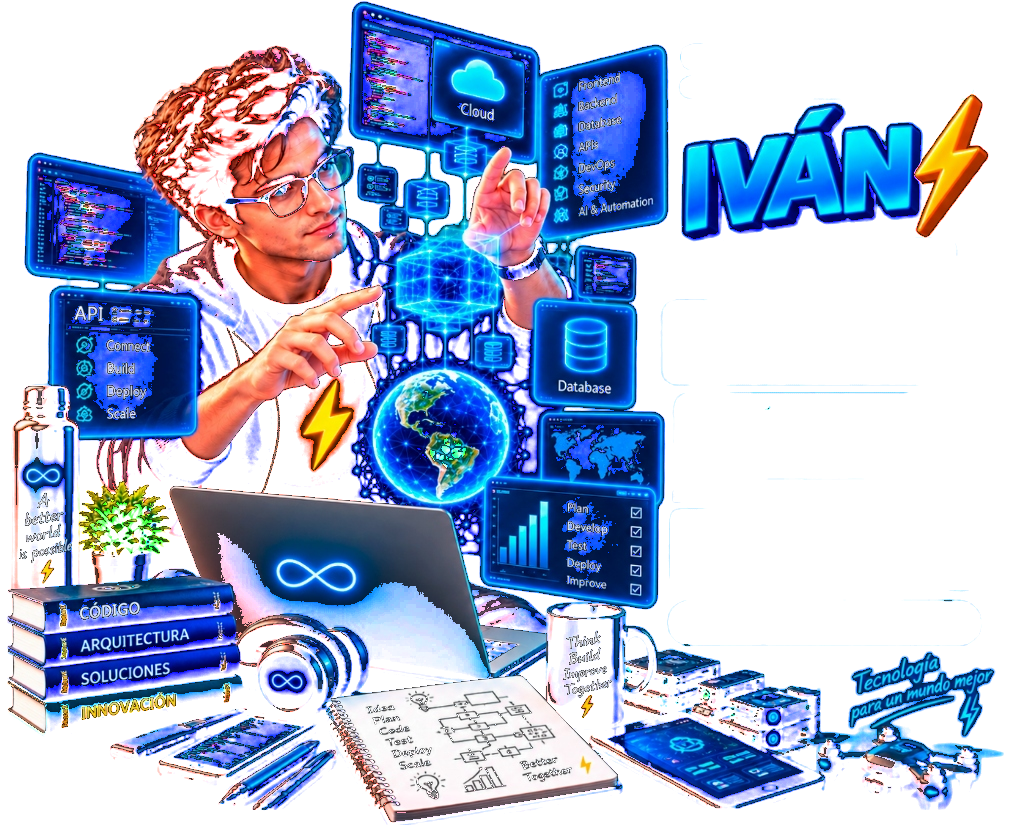
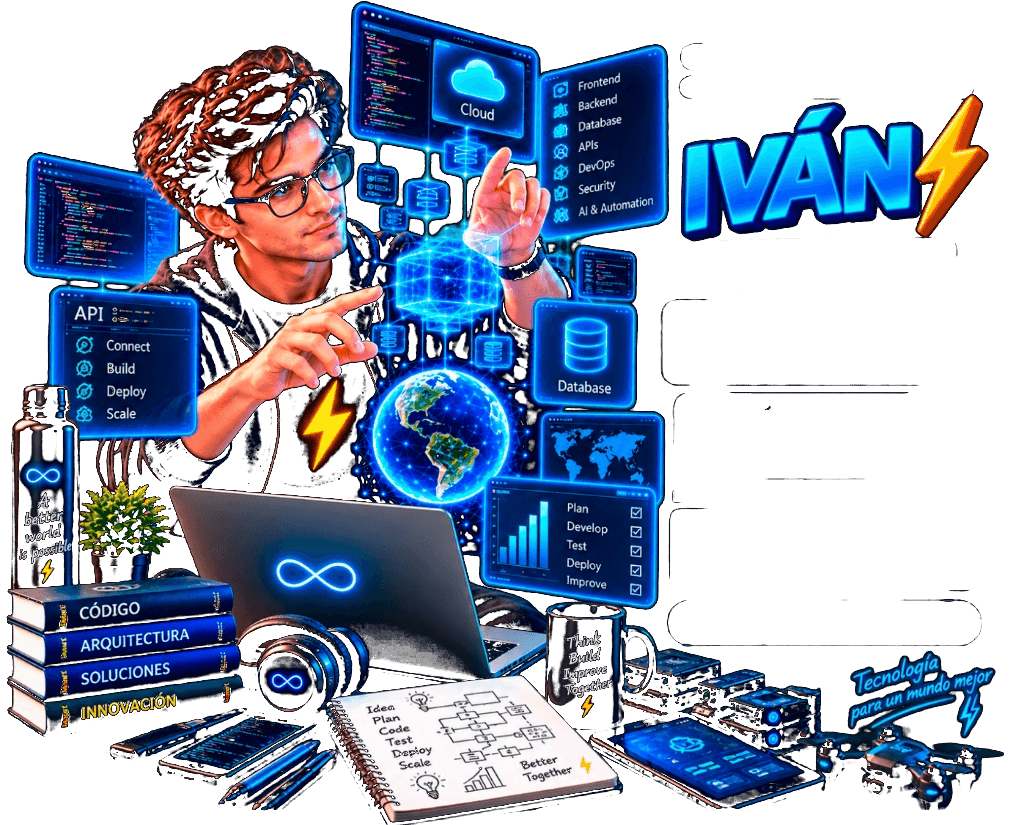
fix(images): enhance definition of Sofia and Ivan master artworks with studio alpha extraction and lossless rendering

diff --git a/src/components/ai-personas/AIPersonasSection.tsx b/src/components/ai-personas/AIPersonasSection.tsx
@@ -106,6 +106,8 @@ export default function AIPersonasSection() {
                   src="/images/sofia_desktop.png"
                   alt="Sofía - Diseño, UX y Creatividad • Hemisferio Creativo Innocentia Tech"
                   fill
+                  quality={100}
+                  unoptimized
                   className="object-contain relative z-10 transition-transform duration-700 group-hover:scale-[1.01]"
                   priority
                 />
@@ -324,6 +326,8 @@ export default function AIPersonasSection() {
                     src="/images/sofia_mobile.png"
                     alt="Sofía - Celular • Hemisferio Creativo"
                     fill
+                    quality={100}
+                    unoptimized
                     className="object-contain relative z-10 transition-transform duration-500 group-hover/mobart:scale-[1.02]"
                     priority
                   />
@@ -423,6 +427,8 @@ export default function AIPersonasSection() {
                   src="/images/ivan_desktop.png"
                   alt="Iván - Software, Arquitectura y Código • Hemisferio Lógico Innocentia Tech"
                   fill
+                  quality={100}
+                  unoptimized
                   className="object-contain relative z-10 transition-transform duration-700 group-hover:scale-[1.01]"
                   priority
                 />
@@ -641,6 +647,8 @@ export default function AIPersonasSection() {
                     src="/images/ivan_mobile.png"
                     alt="Iván - Celular • Hemisferio Lógico"
                     fill
+                    quality={100}
+                    unoptimized
                     className="object-contain relative z-10 transition-transform duration-500 group-hover/mobart:scale-[1.02]"
                     priority
                   />
